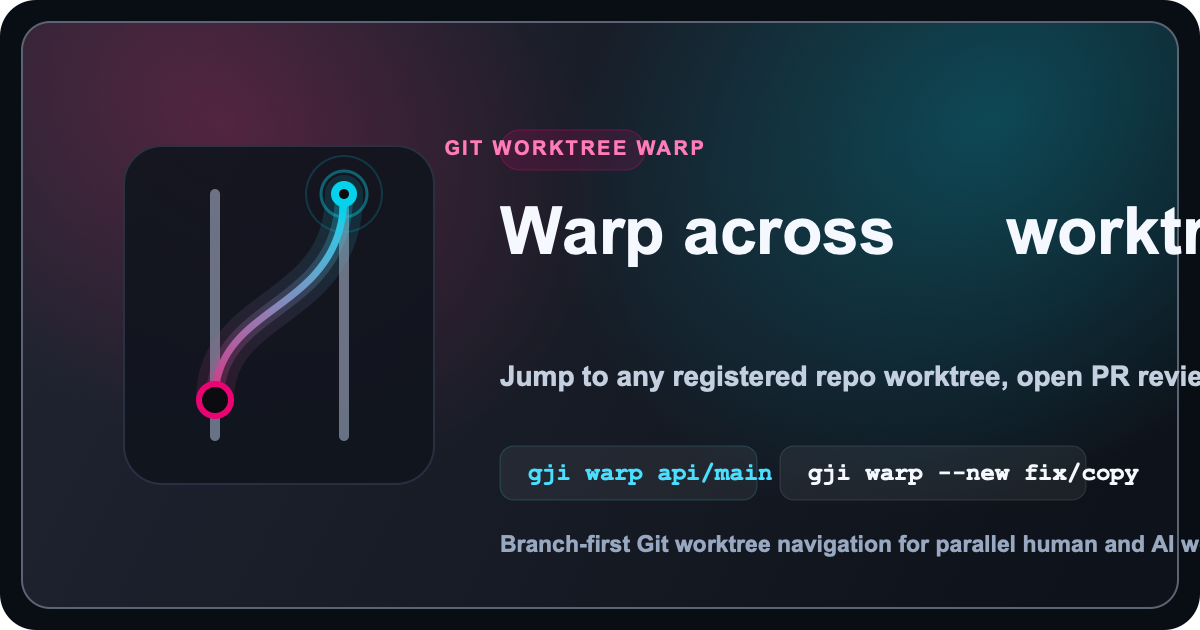
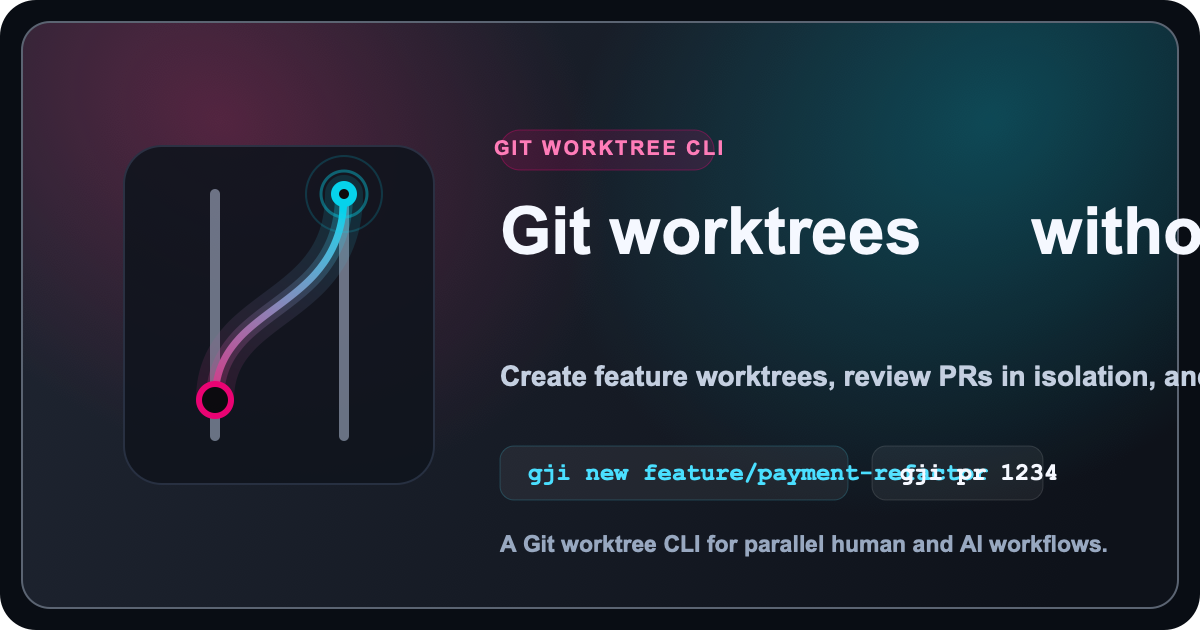
Rebalance homepage messaging around overall workflow

diff --git a/website/src/pages/index.tsx b/website/src/pages/index.tsx
@@ -15,12 +15,11 @@ type Card = {
 };
 
 const siteDescription =
-  'gji is a Git worktree CLI with warp navigation, pull request review, and branch-isolated workflows across active repositories.';
+  'gji is a Git worktree CLI for pull request review, fast context switching, and branch-isolated workflows across active repositories.';
 
 const siteKeywords = [
   'git worktree cli',
   'git worktree navigation',
-  'git warp command',
   'multi repo worktree',
   'pull request review cli',
   'git stash alternative',
@@ -30,67 +29,67 @@ const siteKeywords = [
 
 const heroStats = [
   {
-    value: 'Cross-repo warp',
-    label: 'Jump to any registered repo worktree by branch name or repo/branch from one command.',
+    value: 'Feature work in isolation',
+    label: 'Open a clean worktree without disturbing the branch, install state, or shell you already have open.',
   },
   {
     value: 'PR review in isolation',
-    label: 'Open review work in its own directory, then warp back to feature work when you are done.',
+    label: 'Fetch review work into its own directory instead of turning your main checkout into a temporary review branch.',
   },
   {
-    value: 'Scriptable paths',
-    label: 'Use stable worktree locations and JSON output for shells, editors, and coding agents.',
+    value: 'Fast navigation',
+    label: 'Use go, back, open, and warp to move between active tasks without path hunting or stash churn.',
   },
 ];
 
 const heroChecklist = [
-  'Warp across registered repos without changing your starting directory',
-  'Create a fresh worktree in another repo with `gji warp --new`',
-  'Use `--json` when scripts or agents need the resolved worktree path',
+  'Create branches and worktrees together with `gji new`',
+  'Review pull requests without mutating your current checkout',
+  'Jump between tasks with `go`, `back`, `open`, and `warp`',
 ];
 
 const heroWorkflow = [
   {
-    command: 'gji warp feature/payment-refactor',
-    detail: 'Jump straight to an existing worktree, even when it lives in another registered repo.',
+    command: 'gji new feature/payment-refactor',
+    detail: 'Start a task in its own worktree and land in the new directory immediately.',
+  },
+  {
+    command: 'gji pr 1234',
+    detail: 'Open a pull request in isolation instead of mutating the checkout you were already using.',
   },
   {
     command: 'gji warp api/main',
-    detail: 'Target an exact repo and branch when several repositories carry the same branch names.',
-  },
-  {
-    command: 'gji warp --new fix/copy-regression',
-    detail: 'Create a new worktree from the same entry point when the next task belongs in another repo.',
+    detail: 'When several repos are active, jump straight to the matching worktree by repo and branch.',
   },
 ];
 
 const workflowSteps = [
   {
-    title: 'Warp to active work instantly',
-    body: 'Search all registered repos for a branch and enter the matching worktree without cd-ing into each repo first.',
+    title: 'Open a new task cleanly',
+    body: 'Create a branch and worktree together instead of reshaping one mutable checkout over and over.',
   },
   {
-    title: 'Create from the same entry point',
-    body: 'Use `gji warp --new` when the task belongs in another repo but you still want one command and one picker.',
+    title: 'Review and inspect in parallel',
+    body: 'Use dedicated worktrees for pull requests, investigations, and experiments so each task keeps its own state.',
   },
   {
-    title: 'Return without losing context',
-    body: 'Pair `warp` with `back`, `history`, and `open` so navigation stays fast for both human and AI-assisted work.',
+    title: 'Move without losing momentum',
+    body: 'Use `go`, `back`, `open`, and `warp` to re-enter work quickly when several branches or repos are active at once.',
   },
 ];
 
 const featureCards = [
   {
-    title: 'Cross-repo navigation that stays branch-first',
-    body: 'Move by branch name or repo/branch instead of remembering where each checkout currently lives on disk.',
+    title: 'Separate dependencies per branch',
+    body: 'Each worktree keeps its own install state, build outputs, and editor context instead of sharing one unstable checkout.',
   },
   {
-    title: 'Structured output for tooling',
-    body: 'Use `warp --json`, predictable paths, and shell handoff to plug gji into scripts, editors, and agent workflows.',
+    title: 'Predictable paths and scriptable output',
+    body: 'Use stable worktree locations, shell handoff, and JSON output to plug gji into scripts, editors, and agent workflows.',
   },
   {
-    title: 'Still handles the rest of the worktree lifecycle',
-    body: 'Open PRs, sync branches, clean stale worktrees, and rerun hooks without falling back to manual path juggling.',
+    title: 'Navigation is broader than one command',
+    body: 'Warp covers cross-repo jumps, but the day-to-day flow also includes new, pr, go, back, open, sync, and cleanup.',
   },
 ];
 
@@ -103,13 +102,13 @@ const docsCards: Card[] = [
   },
   {
     title: 'Quick Start',
-    body: 'See the shortest path from warp navigation to PR review to cleanup.',
+    body: 'See the shortest path from feature work to PR review to cleanup.',
     href: '/docs/quick-start',
     label: 'Read quick start',
   },
   {
     title: 'Command Reference',
-    body: 'Review `warp`, `back`, `open`, and the rest of the day-to-day command surface.',
+    body: 'Review `new`, `pr`, `go`, `warp`, `back`, `open`, and the rest of the day-to-day command surface.',
     href: '/docs/commands',
     label: 'Browse commands',
   },
@@ -134,7 +133,7 @@ export default function Home(): ReactNode {
 
   return (
     <Layout
-      title="Warp Across Git Worktrees Without The Hassle"
+      title="Git Worktrees Without The Hassle"
       description={siteDescription}>
       <SiteHead
         jsonLd={jsonLd}
@@ -165,21 +164,21 @@ function SiteHead({
     <Head>
       <meta name="keywords" content={siteKeywords.join(', ')} />
       <meta property="og:type" content="website" />
-      <meta property="og:title" content="gji | Warp across Git worktrees without the hassle" />
+      <meta property="og:title" content="gji | Git worktrees without the hassle" />
       <meta property="og:description" content={siteDescription} />
       <meta property="og:url" content={siteUrl} />
       <meta property="og:image" content={socialImageUrl} />
       <meta
         property="og:image:alt"
-        content="gji social card showing warp-based Git worktree navigation across repositories"
+        content="gji social card showing Git worktree workflows across repositories"
       />
       <meta name="twitter:card" content="summary_large_image" />
-      <meta name="twitter:title" content="gji | Warp across Git worktrees without the hassle" />
+      <meta name="twitter:title" content="gji | Git worktrees without the hassle" />
       <meta name="twitter:description" content={siteDescription} />
       <meta name="twitter:image" content={socialImageUrl} />
       <meta
         name="twitter:image:alt"
-        content="gji social card showing warp-based Git worktree navigation across repositories"
+        content="gji social card showing Git worktree workflows across repositories"
       />
       <script type="application/ld+json">{JSON.stringify(jsonLd)}</script>
     </Head>
@@ -191,17 +190,17 @@ function HeroSection(): ReactNode {
     <section className={styles.hero}>
       <div className={clsx('container', styles.heroInner)}>
         <div className={styles.heroCopy}>
-          <p className={styles.eyebrow}>Git worktree warp</p>
-          <h1 className={styles.heroTitle}>Warp across worktrees without losing your place</h1>
+          <p className={styles.eyebrow}>Git worktree CLI</p>
+          <h1 className={styles.heroTitle}>Git worktrees without the hassle</h1>
           <p className={styles.heroLead}>
-            <code>gji</code> turns Git worktrees into a branch-first navigation flow,
-            with <code>warp</code> for cross-repo jumps, isolated PR review, and
-            clean handoff into the exact directory you need next.
+            <code>gji</code> keeps feature work, pull request review, experiments,
+            and cleanup in separate directories so context switching feels controlled
+            instead of disruptive.
           </p>
           <p className={styles.heroSupport}>
-            When several repos, reviews, experiments, and AI-assisted tasks are open
-            at once, <code>warp</code> gives you one entry point instead of a pile of
-            remembered paths.
+            It wraps Git worktrees into a cleaner daily workflow with navigation,
+            shell handoff, predictable paths, and tools for the full branch
+            lifecycle. <code>warp</code> is part of that workflow, not the whole story.
           </p>
           <div className={styles.ctaRow}>
             <Link
@@ -239,11 +238,11 @@ function HeroWorkflowPanel(): ReactNode {
   return (
     <section className={styles.commandPanel} aria-label="Workflow preview">
       <div className={styles.commandIntro}>
-        <p className={styles.commandEyebrow}>Warp flow</p>
-        <h2 className={styles.commandTitle}>One command for cross-repo context switching</h2>
+        <p className={styles.commandEyebrow}>Typical session</p>
+        <h2 className={styles.commandTitle}>A cleaner way to move between active tasks</h2>
         <p className={styles.commandSummary}>
-          Keep each task in its own worktree, then move by branch intent instead of
-          by terminal tab memory.
+          Keep each task in its own worktree, then use the right command for the
+          moment: create, review, jump back, open in an editor, or cross repos when needed.
         </p>
       </div>
       <div className={styles.workflowList}>
@@ -255,8 +254,8 @@ function HeroWorkflowPanel(): ReactNode {
         ))}
       </div>
       <div className={styles.commandFootnote}>
-        <span className={styles.commandFootnoteLabel}>Resolver format</span>
-        <code>branch or repo/branch</code>
+        <span className={styles.commandFootnoteLabel}>Default path layout</span>
+        <code>../worktrees/&lt;repo&gt;/&lt;branch&gt;</code>
       </div>
     </section>
   );
@@ -268,20 +267,20 @@ function ProofSection(): ReactNode {
       <div className={clsx('container', styles.bandGrid)}>
         <div>
           <p className={styles.sectionLabel}>What changes</p>
-          <h2 className={styles.sectionTitle}>Stop path hunting when several repos are active</h2>
+          <h2 className={styles.sectionTitle}>Stop mutating one checkout for every task</h2>
         </div>
         <div className={styles.problemBox}>
           <p className={styles.problemLabel}>Without gji</p>
           <p>
-            Remember which repo holds the branch, hop between directories manually,
-            then still deal with stash, checkout, reinstall, and cleanup churn.
+            Stash changes, checkout another branch, reinstall dependencies, do the
+            work, then unwind the whole sequence while trying not to break your original state.
           </p>
         </div>
         <div className={styles.solutionBox}>
           <p className={styles.problemLabel}>With gji</p>
           <p>
-            Keep tasks isolated, then warp straight to the branch you want across
-            registered repos without interrupting what is already open.
+            Open each task in its own worktree and move between them directly when
+            you need feature work, PR review, cleanup, or the occasional cross-repo jump.
           </p>
         </div>
       </div>
@@ -294,7 +293,7 @@ function WorkflowSection(): ReactNode {
     <section className={styles.section}>
       <div className="container">
         <p className={styles.sectionLabel}>Core workflow</p>
-        <h2 className={styles.sectionTitle}>Built for the boring moments that usually break flow</h2>
+        <h2 className={styles.sectionTitle}>Built for the boring moments that waste time</h2>
         <div className={styles.stepGrid}>
           {workflowSteps.map((step) => (
             <article key={step.title} className={styles.stepCard}>
@@ -313,7 +312,7 @@ function FeaturesSection(): ReactNode {
     <section className={styles.sectionAlt}>
       <div className="container">
         <p className={styles.sectionLabel}>Why teams keep it around</p>
-        <h2 className={styles.sectionTitle}>A better default for multi-repo, multi-branch work</h2>
+        <h2 className={styles.sectionTitle}>A better default for multi-branch work</h2>
         <div className={styles.cardGrid}>
           {featureCards.map((card) => (
             <article key={card.title} className={styles.featureCard}>

diff --git a/website/docusaurus.config.ts b/website/docusaurus.config.ts
@@ -4,7 +4,7 @@ import type * as Preset from '@docusaurus/preset-classic';
 
 const config: Config = {
   title: 'gji',
-  tagline: 'Warp across Git worktrees without the hassle',
+  tagline: 'Git worktrees without the hassle',
   favicon: 'img/favicon.ico',
   future: {
     v4: true,
@@ -46,7 +46,7 @@ const config: Config = {
     metadata: [
       {
         name: 'keywords',
-        content: 'git worktree cli, git worktree navigation, git warp command, multi repo worktree, pull request review cli, git stash alternative, ai coding workflow',
+        content: 'git worktree cli, git worktree navigation, multi repo worktree, pull request review cli, git stash alternative, ai coding workflow',
       },
       {
         name: 'twitter:card',
